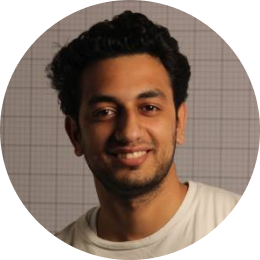
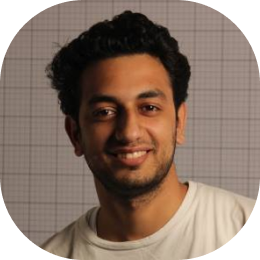
added title tooltips, modified profile pic

diff --git a/index.html b/index.html
@@ -56,20 +56,20 @@
                     <a target="_blank" class="text-blue-500" href="https://www.cocubes.com/">CoCubes</a>
                 </div>
                 <div class="flex flex-row items-center mt-2">
-                    <a target="_blank" class="button_twitter mr-2" href="https://twitter.com/anshulpro"><img class="h-4 w-4" src="assets/twitter.svg"></a>
-                    <a target="_blank" class="button_linkedin mr-2" href="https://www.linkedin.com/in/anshulpro/"><img class="h-4 w-4" src="assets/linkedin.svg"></a>
-                    <a target="_blank" class="button_dribbble" href="https://dribbble.com/anshulpro"><img class="h-4 w-4" src="assets/dribbble.svg"></a>
+                    <a title="Twitter" target="_blank" class="button_twitter mr-2" href="https://twitter.com/anshulpro"><img class="h-4 w-4" src="assets/twitter.svg"></a>
+                    <a title="Linkedin" target="_blank" class="button_linkedin mr-2" href="https://www.linkedin.com/in/anshulpro/"><img class="h-4 w-4" src="assets/linkedin.svg"></a>
+                    <a title="Dribbble" target="_blank" class="button_dribbble" href="https://dribbble.com/anshulpro"><img class="h-4 w-4" src="assets/dribbble.svg"></a>
                 </div>
             </div>
         </section>
         
         <!--Navigation switch-->
         <div id="nav_parent">
-            <div id="work_tab" class="tab_active" onclick="make_tab_active('work_tab')">
+            <div id="work_tab" title="What I do on weekdays" class="tab_active" onclick="make_tab_active('work_tab')">
                 <img src="/images/badge_24px.png">
                 Work
             </div>
-            <div id="afterwork_tab" class="tab_inactive" onclick="make_tab_active('afterwork_tab')">
+            <div id="afterwork_tab" title="What I do post work and on weekends" class="tab_inactive" onclick="make_tab_active('afterwork_tab')">
                 <img src="/images/toy_train_24px.png">
                 After Work
             </div>
